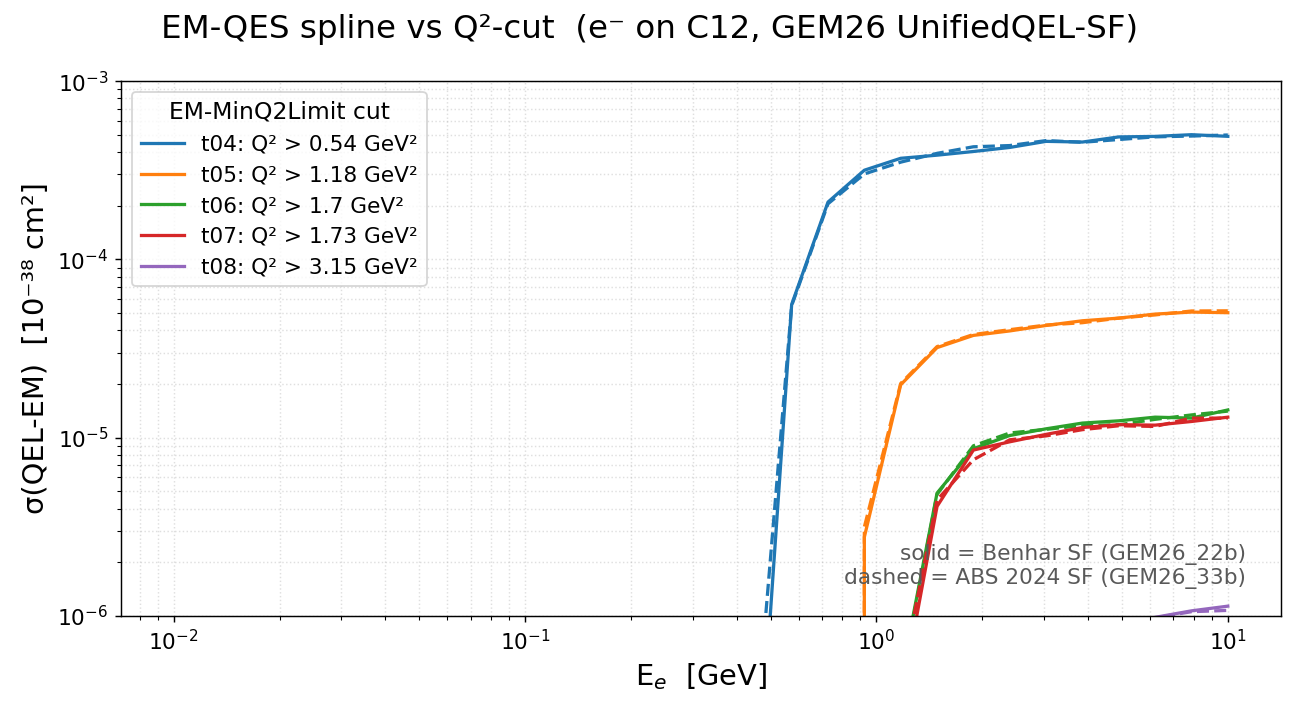
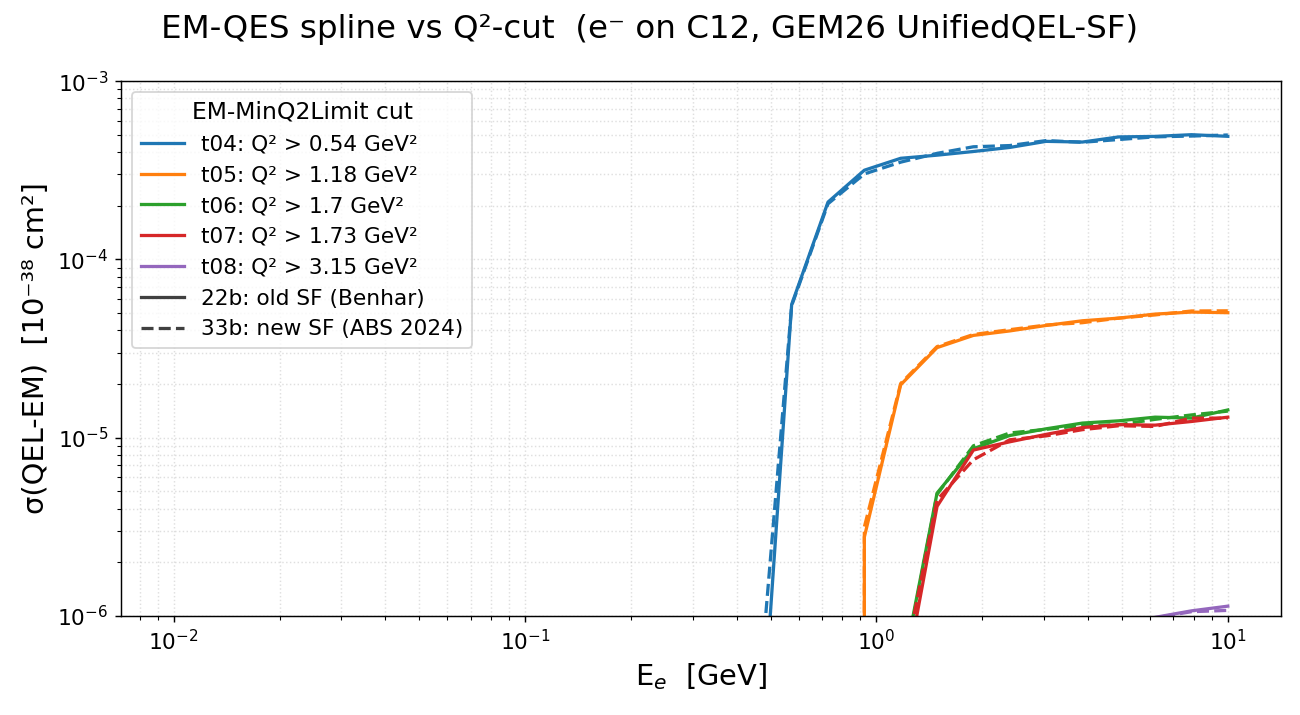
results: move 22b/33b old-vs-new SF mapping into the legend
Replace the corner text note with two legend entries (solid = 22b old
SF Benhar, dashed = 33b new SF ABS 2024) and regenerate both views.

Changed region(s): [[0.0923, 0.4, 0.3692, 0.4923], [0.6462, 0.7385, 0.9538, 0.8308], [0.1231, 0.1231, 0.3692, 0.1846]]

diff --git a/results/template/make_spline_22b_vs_33b_q2cut.py b/results/template/make_spline_22b_vs_33b_q2cut.py
@@ -13,6 +13,7 @@ sigma(E). Emits a log-log view and a linear view. Personal plot style.
 import sys, glob, re
 sys.path.insert(0, "results/template")
 import numpy as np
+from matplotlib.lines import Line2D
 from plot_style import (apply_style, new_panels, style_axis, COLORS,
                         FS_LABEL, FS_LEGEND, FS_LEGEND_TITLE, FS_SUPTITLE)
 
@@ -51,9 +52,12 @@ def make_fig(out, logx, logy, ymin):
                 label=(f"t{cut}: Q² > {lim} GeV²" if cfg == "22b" else None))
     style_axis(ax, title=None, xlabel="E$_e$  [GeV]", ylabel="σ(QEL-EM)  [10⁻³⁸ cm²]",
                logx=logx, logy=logy, ymin=ymin)
-    ax.legend(title="EM-MinQ2Limit cut", fontsize=FS_LEGEND, title_fontsize=FS_LEGEND_TITLE)
-    ax.text(0.97, 0.05, "solid = Benhar SF (GEM26_22b)\ndashed = ABS 2024 SF (GEM26_33b)",
-            transform=ax.transAxes, ha="right", va="bottom", fontsize=FS_LEGEND, color="0.35")
+    handles, labels = ax.get_legend_handles_labels()
+    handles += [Line2D([], [], color="0.25", ls="-", lw=1.8),
+                Line2D([], [], color="0.25", ls="--", lw=1.8)]
+    labels += ["22b: old SF (Benhar)", "33b: new SF (ABS 2024)"]
+    ax.legend(handles, labels, title="EM-MinQ2Limit cut",
+              fontsize=FS_LEGEND, title_fontsize=FS_LEGEND_TITLE)
     fig.suptitle("EM-QES spline vs Q²-cut  (e⁻ on C12, GEM26 UnifiedQEL-SF)", fontsize=FS_SUPTITLE)
     fig.tight_layout()
     fig.savefig(out, dpi=130)
